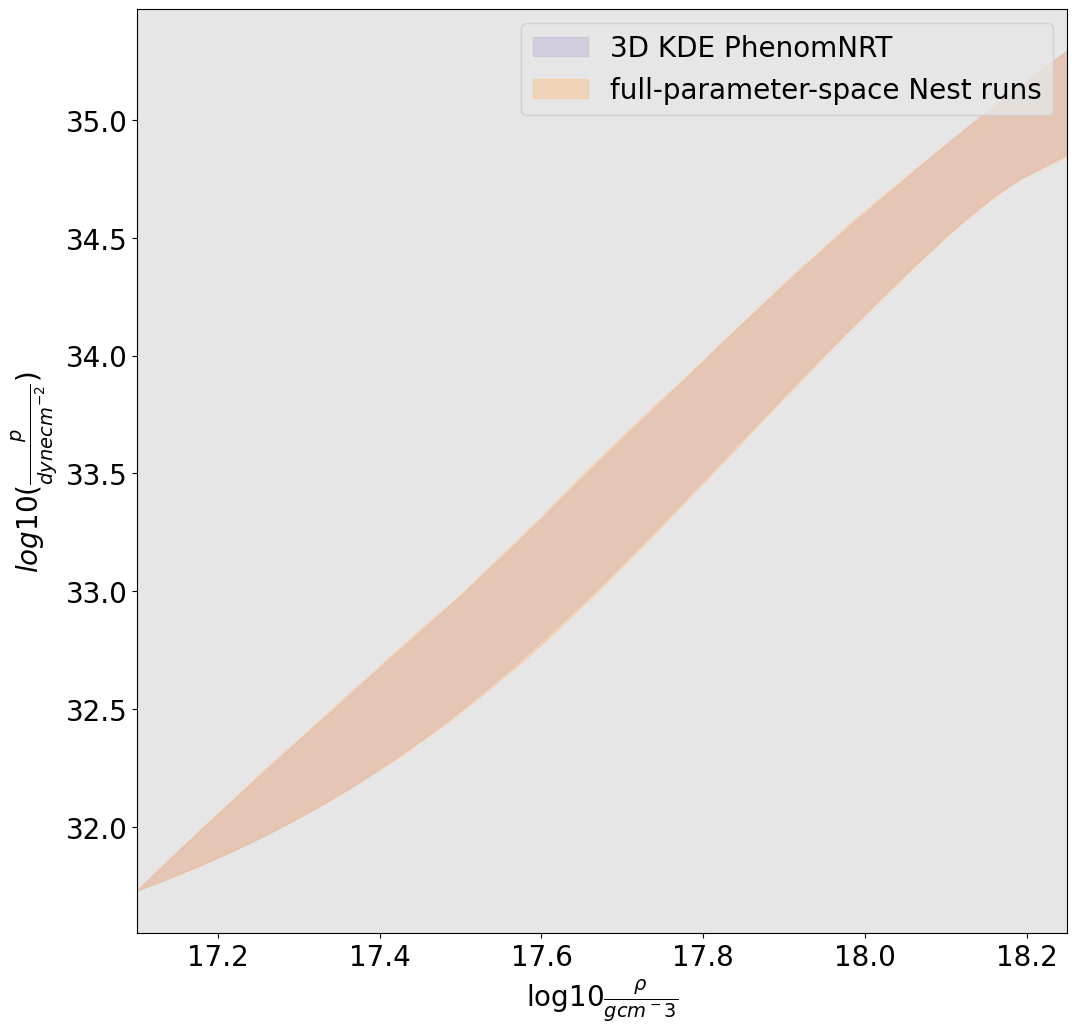
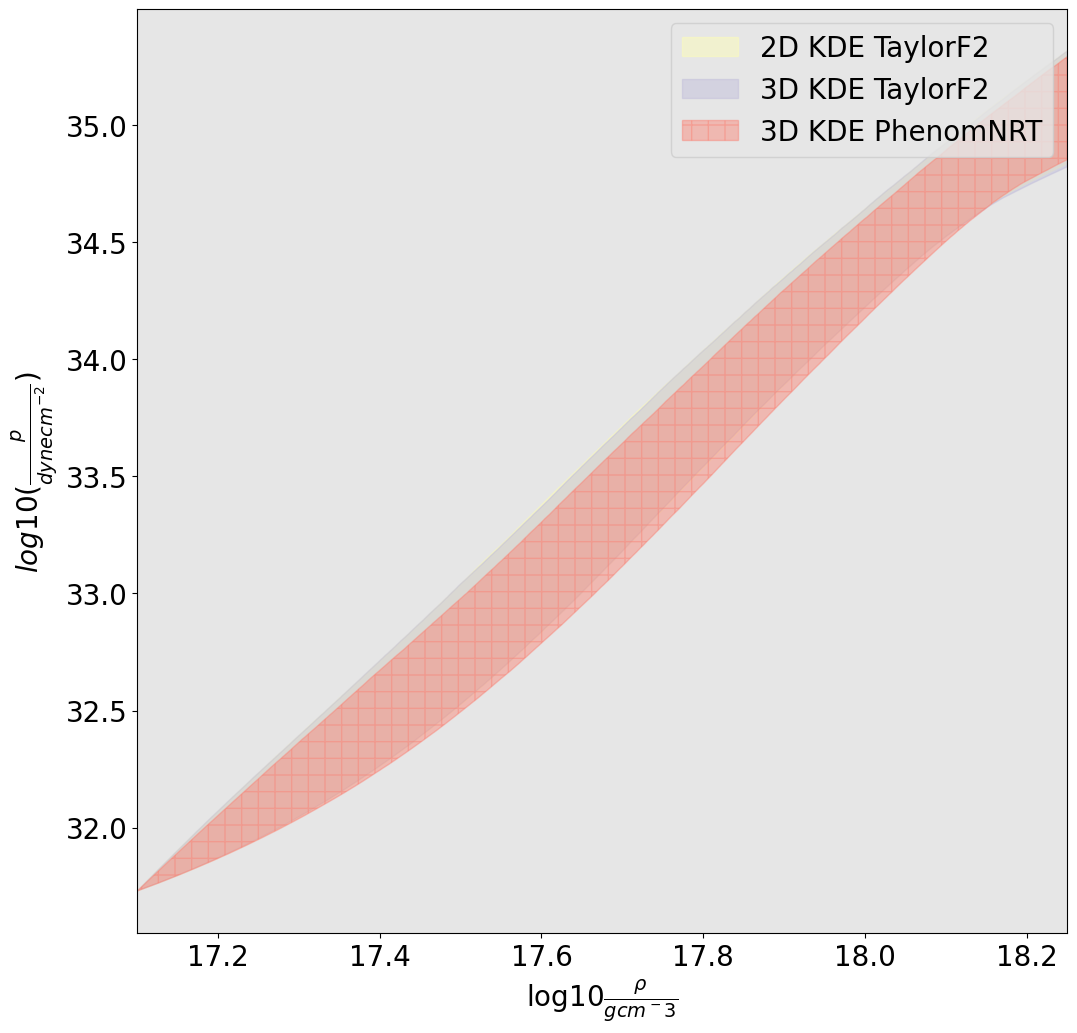
NSBH joint constraint and lambdas(1.4) plts made. Some model selection as well, though still running.

diff --git a/year3/lastStretch/lambdaHist.py b/year3/lastStretch/lambdaHist.py
@@ -3,17 +3,19 @@ import lal
 import lalsimulation as lalsim
 import matplotlib.pyplot as plt
 
-labels = ["lalsim_nest-PhenomNRT", "2D-KDE-TaylorF2", "3D-KDE-TaylorF2", "3D-KDE-PhenomNRT"]
+#labels = ["lalsim_nest-PhenomNRT", "2D-KDE-TaylorF2", "3D-KDE-TaylorF2", "3D-KDE-PhenomNRT"]
 #labels = ["2D-KDE-TaylorF2", "3D-KDE-TaylorF2", "3D-KDE-PhenomNRT"]
 #labels = ["lalsim_nest-PhenomNRT"]
+labels = ["3D-KDE-PhenomNRT"]
 
 def calcLambda_parametrized():
     # Recycled code from GWXtreme.
 
     for ii in range(len(labels)):
 
-        #filename='data/constraints/{}_16simulationsInference_gammas.txt'.format(labels[ii])
-        filename='data/constraints/{}_GW170817inference_gammas.txt'.format(labels[ii])
+        #filename='data/BNS/constraints/{}_16simulationsInference_gammas.txt'.format(labels[ii])
+        #filename='data/BNS/constraints/{}_GW170817inference_gammas.txt'.format(labels[ii])
+        filename='./data/NSBH/constraints/{}_18simulationsInference_1000samp_gammas.txt'.format(labels[ii])
         samples = np.loadtxt(filename)
         Lambdas = []
         m=1.4
@@ -29,8 +31,10 @@ def calcLambda_parametrized():
             Lambda = (2/3)*kk/(cc**5)
             Lambdas.append(Lambda)
 
-        #np.savetxt("data/lambdaHists/{}_16simulationsInference_Lambdas.txt".format(labels[ii]),np.array(Lambdas).T)
-        np.savetxt("data/lambdaHists/{}_GW170817inference_Lambdas.txt".format(labels[ii]),np.array(Lambdas).T)
+        #np.savetxt("data/BNS/lambdaHists/{}_16simulationsInference_Lambdas.txt".format(labels[ii]),np.array(Lambdas).T)
+        #np.savetxt("data/BNS/lambdaHists/{}_GW170817inference_Lambdas.txt".format(labels[ii]),np.array(Lambdas).T)
+        np.savetxt("data/NSBH/lambdaHists/{}_18simulationsInference_1000samp_Lambdas.txt".format(labels[ii]),np.array(Lambdas).T)
+
 
 
 def plotLambda_parametrized(eosname="APR4_EPP"):
@@ -44,7 +48,8 @@ def plotLambda_parametrized(eosname="APR4_EPP"):
     cc = m*lal.MRSUN_SI/rr
     eosLambda = (2/3)*kk/(cc**5)
 
-    Colors = ['#e41a1c','#377eb8','#4daf4a','#984ea3']
+    #Colors = ['#e41a1c','#377eb8','#4daf4a','#984ea3']
+    Colors = ['#e41a1c']
 
     plt.figure(figsize=(12,12))
     plt.rc('font', size=20)
@@ -52,12 +57,14 @@ def plotLambda_parametrized(eosname="APR4_EPP"):
     plt.rc('xtick', direction='out', color='black')
     plt.rc('ytick', direction='out', color='black')
     plt.rc('lines', linewidth=2)
-    Labels = ["lalsim_nest PhenomNRT", "2D KDE TaylorF2", "3D KDE TaylorF2", "3D KDE PhenomNRT"]
+    #Labels = ["lalsim_nest PhenomNRT", "2D KDE TaylorF2", "3D KDE TaylorF2", "3D KDE PhenomNRT"]
     #Labels = ["2D KDE TaylorF2", "3D KDE TaylorF2", "3D KDE PhenomNRT"]
+    Labels = ["3D KDE PhenomPv2"]
     for ii in range(len(Labels)):
 
-        #filename='data/lambdaHists/{}_16simulationsInference_Lambdas.txt'.format(labels[ii])
-        filename='data/lambdaHists/{}_GW170817inference_Lambdas.txt'.format(labels[ii])
+        #filename='data/BNS/lambdaHists/{}_16simulationsInference_Lambdas.txt'.format(labels[ii])
+        #filename='data/BNS/lambdaHists/{}_GW170817inference_Lambdas.txt'.format(labels[ii])
+        filename='data/NSBH/lambdaHists/{}_18simulationsInference_1000samp_Lambdas.txt'.format(labels[ii])
         Lambdas = np.loadtxt(filename).T
         plt.hist(Lambdas, label=Labels[ii], alpha=0.45, fill=True, density=True, color=Colors[ii], histtype='step')
 
@@ -67,5 +74,6 @@ def plotLambda_parametrized(eosname="APR4_EPP"):
     plt.yticks([])
     plt.legend()
     #plt.savefig("plots/lambdaHists/16simulations_Lambdas.png", bbox_inches='tight')
-    plt.savefig("plots/lambdaHists/GW170817_Lambdas.png", bbox_inches='tight')
+    #plt.savefig("plots/lambdaHists/GW170817_Lambdas.png", bbox_inches='tight')
+    plt.savefig("plots/NSBH/lambdaHists/18simulations_1000samp_Lambdas.png", bbox_inches='tight')
 

diff --git a/year3/lastStretch/simulBFs.py b/year3/lastStretch/simulBFs.py
@@ -19,7 +19,8 @@ def singleEventBFs(Trials=1000):
 #                  "241_1.31_1.28", "220_1.36_1.24", "282_1.35_1.32", "149_1.35_1.23", "237_1.36_1.26", 
 #                  "138_1.5_1.21", "235_1.4_1.3", "219_1.3_1.28", "260_1.48_1.33", "164_1.34_1.19"]
 
-    injections = ['103_8.82_1.23','116_9.83_1.15','131_2.2_1.53','177_9.59_1.97','196_3.34_2.13',
+    #injections = ['103_8.82_1.23','116_9.83_1.15','131_2.2_1.53','177_9.59_1.97','196_3.34_2.13',
+    injections = ['177_9.59_1.97',
                   '227_4.19_2.05','236_7.03_1.96','261_4.16_2.08','267_4.47_1.66','321_3.11_2.08',
                   '327_3.11_1.22','380_7.95_2.1','386_2.64_1.81','432_3.51_1.94','452_3.55_1.47',
                   '455_2.33_1.97','467_5.58_2.06','756_7.0_1.58']
@@ -62,6 +63,7 @@ def singleEventBFs(Trials=1000):
             for eos in eosList:
                 print(eos)
                 bf, bf_trials = method.computeEvidenceRatio(EoS1=eos,EoS2="SLY",trials=Trials)
+                print(bf)
                 #bf = method.computeEvidenceRatio(EoS1=eos,EoS2="SLY",trials=0)
                 BFs.append(bf)
                 trials.append(bf_trials.tolist())
@@ -146,7 +148,7 @@ def multipleEventBFs(Trials=1000):
     #uLTs_Dir = "../../year2/bilby_runs/simulations/outdir/1st_Phenom_Taylor/uniformP_LTs/phenom-injections/TaylorF2"
     #uLs_Dir = "../../year2/bilby_runs/simulations/outdir/1st_Phenom_Taylor/uniformP_Ls/IMRPhenomPv2_NRTidal/APR4_EPP"
     #phenomPhenom_Dir = "../../year2/bilby_runs/simulations/outdir/1st_Phenom_Phenom/IMRPhenomPv2_NRTidal/APR4_EPP"
-    nsbhPhenom_Dir = '/home/michael/projects/eos/GWXtreme_Tasks/year3/lastStretch/files/NSBH_IMRPhenomPv2_NRTidal/APR4_EPP'
+    nsbhPhenom_Dir = '/home/michael/projects/eos/GWXtreme_Tasks/year3/lastStretch/files/NSBH/IMRPhenomPv2_NRTidal/APR4_EPP'
 
     # Seems that only 13 of the events aren't called troublesome. Ig those caused extremely small BFs.
     #uLTs_Files = glob.glob("{}/*/*simplified.json".format(uLTs_Dir)) + glob.glob("{}/troublesome/*/*simplified.json".format(uLTs_Dir))
@@ -159,15 +161,14 @@ def multipleEventBFs(Trials=1000):
     #stack_phenomPhenom = ems.Stacking(phenomPhenom_Files,kdedim=3)
     stack_nsbhPhenom = ems.Stacking(nsbhPhenom_Files,kdedim=3)
 
-    #output = "data/BFs/16simulations_2D_3D_BFs_1000trial.json"
-    output = "data/BFs/18simulations_BFs_100trial.json"
+    #output = "data/BNS/BFs/16simulations_2D_3D_BFs_1000trial.json"
+    output = "data/NSBH/BFs/18simulations_BFs_100trial.json"
 
     #labels = ["2D KDE TaylorF2", "3D KDE TaylorF2", "3D KDE PhenomNRT"]
     labels = ["3D KDE PhenomPv2"]
     #stacks = [stack_uLTs, stack_uLs, stack_phenomPhenom]
     stacks = [stack_nsbhPhenom]
-    #eosList = ["BHF_BBB2","KDE0V","KDE0V1","SKOP","H4","HQC18","SLY2","SLY230A","SKMP","RS","SK255","SLY9","APR4_EPP","SKI2","SKI4","SKI6","SK272","SKI3","SKI5","MPA1","MS1_PP","MS1B_PP"]
-    eosList = ["KDE0V","KDE0V1","SKOP","H4","HQC18","SLY2","SLY230A","SKMP","RS","SK255","SLY9","APR4_EPP","SKI2","SKI4","SKI6","SK272","SKI3","SKI5","MPA1","MS1_PP","MS1B_PP"]
+    eosList = ["BHF_BBB2","KDE0V","KDE0V1","SKOP","H4","HQC18","SLY2","SLY230A","SKMP","RS","SK255","SLY9","APR4_EPP","SKI2","SKI4","SKI6","SK272","SKI3","SKI5","MPA1","MS1_PP","MS1B_PP"]
     stacks_BFs = []
     stacks_uncerts = []
     for stack in stacks:
@@ -207,7 +208,7 @@ def multipleEventBFs(Trials=1000):
 
 def multipleEventPlots():
      
-    #File = "data/BFs/16simulations_2D_3D_BFs_1000trial.json"
+    #File = "data/BNS/BFs/16simulations_2D_3D_BFs_1000trial.json"
     File = "data/NSBH/BFs/18simulations_BFs_100trial.json"
     with open(File,"r") as f:
         data = json.load(f)

diff --git a/year3/lastStretch/eventConstraint.py b/year3/lastStretch/eventConstraint.py
@@ -132,12 +132,12 @@ def CalcConstraint2():
 def plotConstraint():
     # Adopted from Anarya's GWXtreme 3d kde prod branch's plotting logic.
 
-    #labels = ["2D-KDE-TaylorF2", "3D-KDE-TaylorF2", "3D-KDE-PhenomNRT"]
-    labels = ["3D-KDE-PhenomNRT", "lalsim_nest-PhenomNRT"]
-    #Labels = ["2D KDE TaylorF2", "3D KDE TaylorF2", "3D KDE PhenomNRT"]
-    Labels = ["3D KDE PhenomNRT", "full-parameter-space Nest runs"]
-    #Colors = ['#ffffb3','#bebada','#fb8072']
-    Colors = ['#beaed4','#fdc086']
+    labels = ["2D-KDE-TaylorF2", "3D-KDE-TaylorF2", "3D-KDE-PhenomNRT"]
+    #labels = ["3D-KDE-PhenomNRT", "lalsim_nest-PhenomNRT"]
+    Labels = ["2D KDE TaylorF2", "3D KDE TaylorF2", "3D KDE PhenomNRT"]
+    #Labels = ["3D KDE PhenomNRT", "full-parameter-space Nest runs"]
+    Colors = ['#ffffb3','#bebada','#fb8072']
+    #Colors = ['#beaed4','#fdc086']
 
     plt.figure(figsize=(12,12))
     plt.rc('font', size=20)
@@ -146,7 +146,7 @@ def plotConstraint():
     plt.rc('ytick', direction='out', color='black')
     plt.rc('lines', linewidth=2)
 
-    Hatches = ["",""]
+    Hatches = ["","","+"]
 
     for label, Label, Color, Hatch in zip(labels,Labels,Colors,Hatches): # increment over each plot file
 
